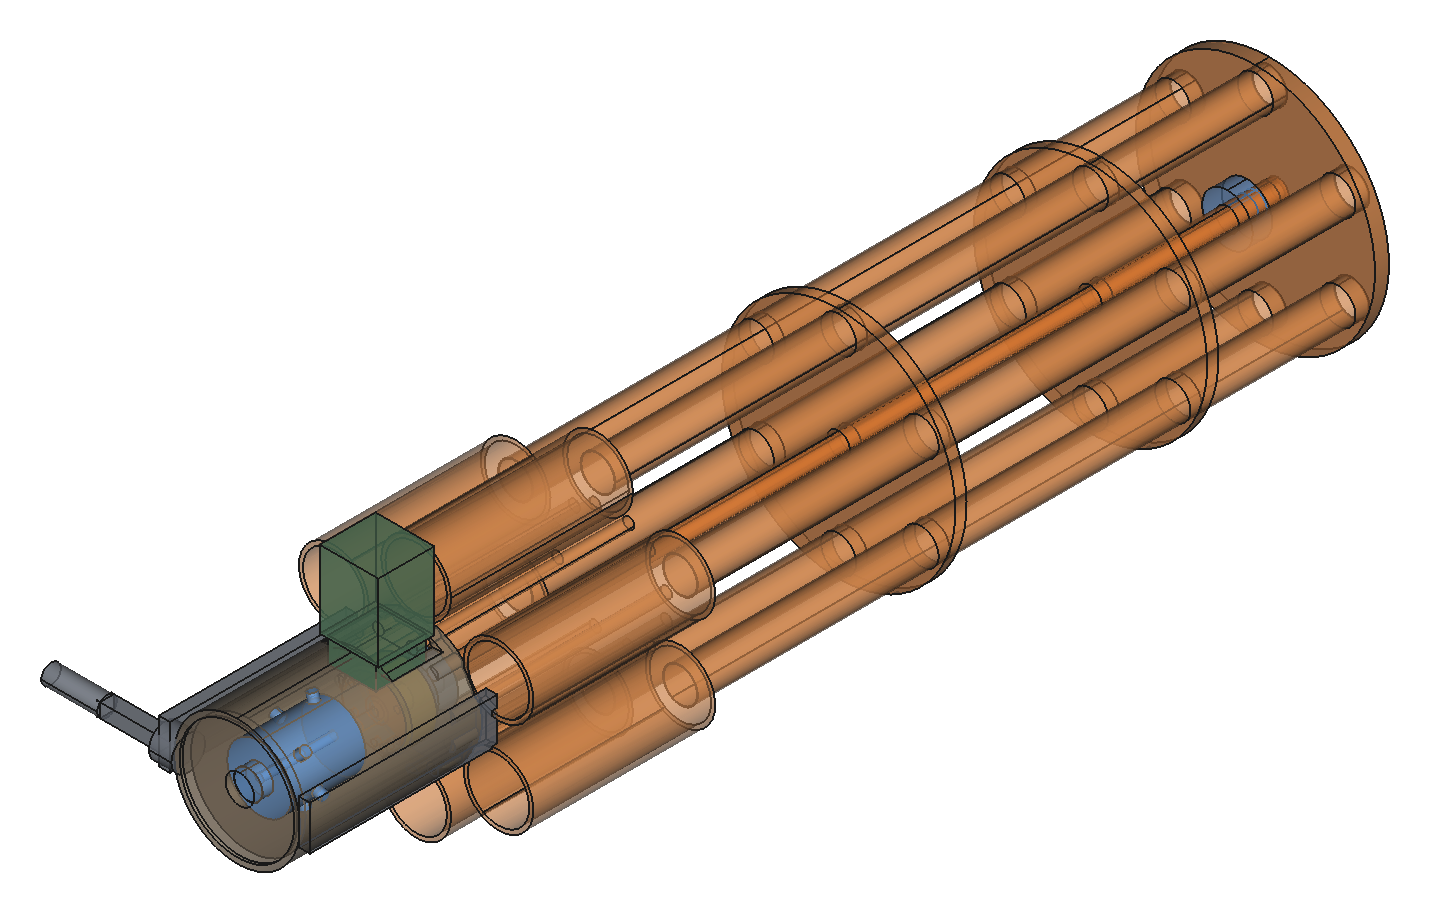
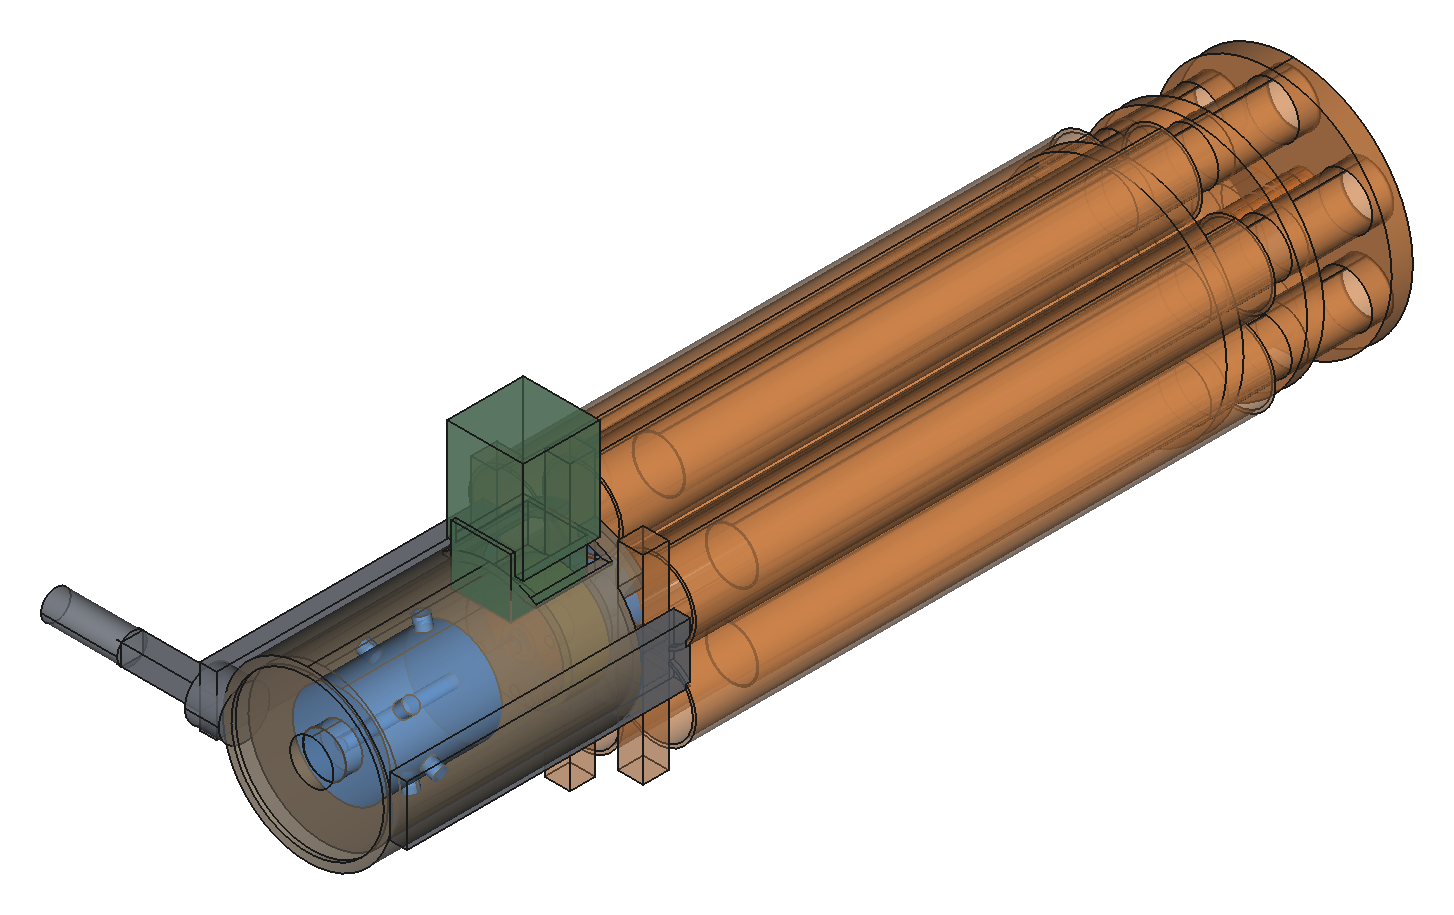
Redraw the gatling product sketch on mitrailleuse v4.4 tubes.
Use 25×0.6×300 barrels, Ø38×~274 chambers, six stations at pitch 40,
and keep the slim casing/hopper/crank without a carriage.

Changed region(s): [[0.0308, 0.0307, 0.9846, 0.9507]]

diff --git a/gatling/gun_sketch.py b/gatling/gun_sketch.py
@@ -2,16 +2,16 @@
 """
 Gatling finished-product silhouette (gun body only — no carriage/bench).
 
-Assembled gun: 6 QEV stations on R68, front spiders/clamp, breech casing over
-hub+MQR, top pellet hopper, rear hand crank, side cheeks. Warm = spins with
-the pack, cool = stays fixed. Block sketch only — no full station CAD, hoses,
-chronograph, or wheeled mount.
+Assembled gun on **mitrailleuse tubes** (live v4.4 numbers): steel barrel
+25 × 0.6 × 300, aluminium chamber 38 × 1.5 × ~274, six stations on a ring at
+pitch 40 (R = 40 for N = 6). Front spiders/clamps, slim breech casing over
+hub+MQR, top pellet hopper, rear hand crank, side cheeks. Warm = spins,
+cool = fixed. Block sketch only — no full module CAD, hoses, or wheeled mount.
 
 Visual cues (refs, not copies):
   Civil War / 1862–83 Gatling — barrel cluster, breech casing, top feed, crank.
-  Modern M134 — compact 6-barrel clamp + enclosed receiver at the breech.
-  Our kit — fat-coax chambers Ø50×130 at R68, barrels Ø25 (silhouette length
-  longer than the breech-bench stub so the pack reads as a long gun).
+  Modern M134 — front barrel clamps + enclosed receiver at the breech.
+  Pack geometry — mitrailleuse/module stage3v4 + pack pitch 40 (docs/pack.md).
 
     freecadcmd -c "REPO='$PWD'; exec(open('gatling/gun_sketch.py').read())"
 
@@ -42,15 +42,17 @@ for _m in (G, FV):
 OUT_DIR = os.path.join(REPO, "exports", "gatling_gun_sketch")
 NAME = "gatling_gun_sketch"
 
-# ---------------------------------------------------------------- pack (mm)
+# ---------------------------------------------------------------- pack from mitrailleuse v4.4 (mm)
+# Live numbers: module/stage3v4_coaxial_chamber.py + pack pitch docs/pack.md.
 N = 6
-R = 68.0                     # PACK_PITCH (real)
-BARREL_OD, BARREL_ID = 25.0, 23.8
-# Product silhouette barrels — longer than the ~180 breech-bench stub so the
-# pack dominates length (real OD/pitch kept).
-BARREL_L = 480.0
-CH_OD, CH_L = 50.0, 130.0    # real fat-coax chamber
-QEV_GAP = 8.0
+PITCH = 40.0                 # mitrailleuse module pitch
+R = PITCH                    # N=6 ring: neighbour chord = R → pitch 40
+BARREL_OD, BARREL_ID = 24.98, 23.8   # 25 × 0.6 steel
+BARREL_L = 300.0             # v4.4 default BARREL_LEN
+CH_OD, CH_L = 38.0, 274.0    # Al 38 × 1.5; chamber_len ≈ 274 from freecadcmd
+# Module rear ears → muzzle ≈ 348 mm (z_end − z_ry on v4.4).
+MODULE_L = 348.0
+REAR_LUMP = 12.0             # ears / rear plug silhouette aft of chamber tube
 
 AXLE_OD, AXLE_ID = 16.0, 10.0
 HUB_OD, HUB_T = 50.0, 18.0
@@ -62,24 +64,27 @@ MQR_GAP = 2.0
 BRG_OD, BRG_T = 36.0, 14.0
 
 PLATE_T = 10.0
-# Spiders follow barrel ring (Ø25 @ R68), not the fatter chamber envelope.
-PLATE_OD = 2 * R + BARREL_OD + 10.0
-CLAMP_OD = 2 * R + BARREL_OD + 6.0
+PLATE_OD = 2 * R + BARREL_OD + 8.0
+CLAMP_OD = 2 * R + BARREL_OD + 4.0
 
-# +Z toward muzzle.
+# +Z toward muzzle. Coaxial like v4.4: chamber tube around the rear of the barrel,
+# bare muzzle tip forward of the front plug.
 z_muzzle = 0.0
 z_plate0 = 0.0
 z_plate1 = PLATE_T
-z_clamp_a0 = 120.0
-z_clamp_a1 = z_clamp_a0 + 8.0
-z_clamp_b0 = 300.0
-z_clamp_b1 = z_clamp_b0 + 8.0
-z_breech = BARREL_L
-z_ch0 = z_breech
+z_bare = MODULE_L - CH_L - REAR_LUMP          # ≈ 62 mm bare barrel (matches v4.4 tip)
+z_ch0 = z_bare
 z_ch1 = z_ch0 + CH_L
-z_qev_aft = z_ch1 + QEV_GAP
+z_aft = z_ch1 + REAR_LUMP                     # = MODULE_L
+z_clamp_a0 = 40.0
+z_clamp_a1 = z_clamp_a0 + 8.0
+z_clamp_b0 = max(z_bare - 20.0, z_clamp_a1 + 30.0)
+z_clamp_b1 = z_clamp_b0 + 8.0
+# Barrel tube length BARREL_L along the module (seat→muzzle); show full Ø25 to muzzle.
+z_barrel0 = z_muzzle
+z_barrel1 = min(BARREL_L, z_aft - 20.0)
 
-z_hub1 = z_qev_aft + 20.0
+z_hub1 = z_aft + 18.0
 z_hub0 = z_hub1 - HUB_T
 z_axle0 = z_plate0 - 6.0
 z_axle1 = z_hub1
@@ -94,15 +99,14 @@ z_stator1 = z_stator0 + STATOR_L
 z_stub1 = z_stator1 + STATOR_HUB_L
 
 AXLE_L = z_axle1 - z_axle0
-PACK_OD = 2 * (R + CH_OD / 2)       # chamber envelope Ø186
+PACK_OD = 2 * (R + CH_OD / 2)       # Ø118 at pitch 40 / Ø38
 BARREL_RING_OD = 2 * (R + BARREL_OD / 2)
 
-# Slim breech casing around hub/MQR only — not a fat drum around the pack.
-# Product frame: +X up, +Y left (crank), +Z muzzle (fcview VIEW_ROT).
-CASE_OD = max(HUB_OD, STATOR_OD) + 40.0   # Ø90 — thinner than pack Ø186
+# Slim breech casing around hub/MQR — under the pack OD.
+CASE_OD = max(HUB_OD, STATOR_OD) + 30.0   # Ø80 < pack Ø118
 CASE_T = 4.0
-HOPPER_W, HOPPER_D, HOPPER_H = 42.0, 40.0, 55.0   # narrow, low
-CRANK_ARM, CRANK_GRIP = 50.0, 40.0                # short so width stays pack-like
+HOPPER_W, HOPPER_D, HOPPER_H = 36.0, 36.0, 48.0
+CRANK_ARM, CRANK_GRIP = 45.0, 36.0
 CHEEK_T = 8.0
 
 V = App.Vector
@@ -113,18 +117,19 @@ def tube(od, idd, z_a, z_b, x=0.0, y=0.0):
 
 
 def station(x, y):
-    barrel = tube(BARREL_OD, BARREL_ID, z_muzzle, z_breech)
-    chamber = tube(CH_OD, CH_OD - 6.0, z_ch0, z_ch1)
-    rxy = math.hypot(x, y) or 1.0
-    ux, uy = x / rxy, y / rxy
-    rail_y = -(CH_OD / 2 + 5.0)
-    r1 = G.cyl(8.0, z_ch0 - 10, z_ch1 + 15, -12.0, rail_y)
-    r2 = G.cyl(8.0, z_ch0 - 10, z_ch1 + 15, 12.0, rail_y)
-    local = G.fuse_all([barrel, chamber, r1, r2]).removeSplitter()
-    ang = math.degrees(math.atan2(ux, uy))
-    local.rotate(V(0, 0, 0), V(0, 0, 1), -ang)
-    local.translate(V(x, y, 0))
-    return local
+    """One mitrailleuse-style coaxial module: Ø25 barrel + Ø38 chamber around it."""
+    barrel = tube(BARREL_OD, BARREL_ID, z_barrel0, z_barrel1)
+    chamber = tube(CH_OD, CH_OD - 2 * 1.5, z_ch0, z_ch1)
+    # Tiny rear-plug ears lump (not full v4.4 CAD).
+    ears = Part.makeBox(CH_OD + 16.0, 12.0, REAR_LUMP,
+                        V(x - (CH_OD + 16.0) / 2, y - 6.0, z_ch1))
+    return G.fuse_all([placed_xy(barrel, x, y), placed_xy(chamber, x, y), ears]).removeSplitter()
+
+
+def placed_xy(shape, x, y):
+    s = shape.copy()
+    s.translate(V(x, y, 0))
+    return s
 
 
 def spider(z0, z1, od, hole_od):
@@ -235,7 +240,7 @@ bb = gun.BoundBox
 gun_L = bb.ZLength
 gun_W = bb.YLength
 gun_H = bb.XLength
-pack_L = z_qev_aft - z_muzzle
+pack_L = z_aft - z_muzzle
 case_L = z_case1 - z_case0
 hop_bb = hopper.BoundBox
 crank_bb = crank.BoundBox
@@ -249,7 +254,7 @@ checks = [
     ("hopper solid", G.single_solid(hopper)),
     ("crank solid", G.single_solid(crank)),
     ("cheeks present", cheeks_s.Volume > 1e4),
-    ("axle spans pack (%.0f)" % AXLE_L, AXLE_L >= (z_qev_aft - z_muzzle)),
+    ("axle spans pack (%.0f)" % AXLE_L, AXLE_L >= pack_L),
     ("axle out of MQR bore",
      axle.common(G.cyl(THROUGH + 0.5, z_rotor0, z_stub1)).Volume < 1.0),
     ("pack clears casing (vol %.1f)" % pack.common(casing).Volume,
@@ -258,17 +263,19 @@ checks = [
     ("casing slimmer than pack (Ø%.0f < Ø%.0f)" % (CASE_OD, PACK_OD),
      CASE_OD < PACK_OD),
     ("pack longer than casing (%.0f > %.0f)" % (pack_L, case_L),
-     pack_L > 2.5 * case_L),
+     pack_L > 2.0 * case_L),
     ("overall longer than wide (%.0f > %.0f)" % (gun_L, gun_W),
-     gun_L > 1.8 * gun_W),
+     gun_L > 1.5 * gun_W),
+    ("pitch 40 like mitrailleuse", abs(R - PITCH) < 1e-6),
 ]
 report = [
     NAME,
-    "  sketch                 : long/narrow gatling body (no carriage)",
+    "  sketch                 : gatling body on mitrailleuse tubes (no carriage)",
     "  rotates (warm)         : stations, spiders/clamps, axle, hub, MQR rotor",
     "  fixed (cool)           : slim breech casing, hopper, crank, cheeks, stator",
-    "  pack                   : 6@R%.0f, barrel Ø%.0f×%.0f + chamber Ø%.0f×%.0f"
-    % (R, BARREL_OD, BARREL_L, CH_OD, CH_L),
+    "  pack                   : 6@R%.0f (pitch %.0f), barrel Ø%.2f×%.0f + chamber Ø%.0f×%.0f"
+    % (R, PITCH, BARREL_OD, BARREL_L, CH_OD, CH_L),
+    "  source                 : stage3v4 25×0.6 / 38×1.5; module L≈%.0f mm" % MODULE_L,
     "  axle                   : Ø%.0f/%.0f × %.0f mm (nose→hub)" % (AXLE_OD, AXLE_ID, AXLE_L),
     "  overall L×W×H          : %.0f × %.0f × %.0f mm (Z × Y × X)"
     % (gun_L, gun_W, gun_H),
@@ -278,9 +285,9 @@ report = [
     % (hop_bb.XLength, hop_bb.YLength, hop_bb.ZLength),
     "  crank bbox             : %.0f × %.0f × %.0f mm (X×Y×Z)"
     % (crank_bb.XLength, crank_bb.YLength, crank_bb.ZLength),
-    "  product cues           : long pack + slim casing + hopper + short crank",
-    "  refs                   : 1862–83 Gatling feed/crank/casing; M134 clamp",
-    "  not drawn              : carriage, hoses, AirTAC detail, full station CAD",
+    "  product cues           : mitrailleuse pack + slim casing + hopper + crank",
+    "  refs                   : v4.4 tubes; 1862–83 casing/feed/crank; M134 clamps",
+    "  not drawn              : carriage, hoses, full v4.4 CAD, fat-coax gatling station",
 ]
 report += ["  [%s] %s" % ("OK " if ok else "FAIL", n) for n, ok in checks]
 print("\n".join(report))

diff --git a/docs/gatling.md b/docs/gatling.md
@@ -13,7 +13,7 @@
 - [`gatling/mqr_axis_sketch.py`](../gatling/mqr_axis_sketch.py) — ось + ступица + MQR на
   двух стойках;
 - [`gatling/gun_sketch.py`](../gatling/gun_sketch.py) — **силуэт готового изделия**
-  (6@R68, казённый кожух, бункер, рукоять; без лафета);
+  на трубах митральезы (6@pitch40, кожух/бункер/рукоять; без лафета);
 - [`gatling/pack_sketch.py`](../gatling/pack_sketch.py) — технабросок пакета/оси
   (не вид изделия).
 
@@ -67,13 +67,13 @@
     3D-блоки оси: [`gatling/mqr_axis_sketch.py`](../gatling/mqr_axis_sketch.py) — вал на
     двух маленьких стойках + ступица + ротор (тёплый); статор + пластина (холодный).
     Опора пакета — подшипники, не MQR.
-    Силуэт **готового изделия** (без лафета): [`gatling/gun_sketch.py`](../gatling/gun_sketch.py) —
-    длинный узкий корпус: 6@R68 (камера Ø50×130 реальная; стволы силуэта Ø25×480),
-    тонкий казённый кожух Ø90 над ступицей/MQR, узкий бункер, короткая рукоять.
-    Габарит ≈ **750 × 224 × 195 мм** (Д×Ш×В); пакет L 618 / Ø186; кожух L 130 / Ø90;
-    бункер ≈ 73×42×40; рукоять вылет ≈ 98 мм. Референсы: Gatling 1862–83 (бункер,
-    рукоять, кожух) и M134 (хомут, ресивер). Технабросок пакета —
-    [`gatling/pack_sketch.py`](../gatling/pack_sketch.py).
+    Силуэт **готового изделия** (без лафета) на **трубах митральезы** v4.4:
+    [`gatling/gun_sketch.py`](../gatling/gun_sketch.py) — 6 модулей на кольце pitch 40
+    (R40): ствол сталь 25×0.6×300, камера Al 38×1.5×~274, длина модуля ≈348 мм;
+    тонкий казённый кожух Ø80, узкий бункер, короткая рукоять.
+    Габарит ≈ **478 × 181 × 157 мм** (Д×Ш×В); пакет L 348 / Ø118; кожух L 130 / Ø80;
+    бункер ≈ 66×36×38; рукоять вылет ≈ 89 мм. (Fat-coax R68 — отдельная ветка стенда,
+    не этот силуэт.) Технабросок пакета — [`gatling/pack_sketch.py`](../gatling/pack_sketch.py).
 
 ![MQR6 на оси пакета](img/gatling_mqr_axis.svg)
 

diff --git a/docs/status.md b/docs/status.md
@@ -84,7 +84,7 @@
 | `linear_breech.py` | **живое** (эскиз) | Станция затвора: fat coax на 2 рельсах Ø8 × 1, два хомута ствола (казённик + насадка), носовые втулки на QEV, **жёлоб на передней крышке** (одна печать с крышкой; борта ниже экватора, толкает кончик фиттинга), ход ≈ 66 мм; AirTAC M3R110 в люльке (шток −Z), L-палец жмёт **только на закрытии**. `exec` fat coax как библиотека. Выгрузка `exports/gatling_linear_breech/`. |
 | `linear_breech_bench.py` | **живое** (эскиз) | Ручной стенд одной станции: две маленькие опоры под рельсы (рельсы — балка, без длинной плиты), T-ручка на салазках. `exec` linear_breech как библиотека. Выгрузка `exports/gatling_linear_breech_bench/`. Плиты: `gatling/linear_breech_bench_plates.sh` → PLA airtight 0.4 + PLA 0.8. |
 | `mqr_axis_sketch.py` | **живое** (эскиз) | Грубая 3D-сборка оси: вал на 2 маленьких стойках + ступица + ротор MQR (крутится) / статор + пластина (стоит). MQR не в силовой цепи. Выгрузка `exports/gatling_mqr_axis_sketch/`. |
-| `gun_sketch.py` | **живое** (эскиз) | Силуэт **готового** корпуса: длинный узкий, 6@R68, кожух Ø90, бункер, рукоять; **без лафета**. Габарит ≈ 750×224×195 мм. Выгрузка `exports/gatling_gun_sketch/`; `docs/img/gatling_gun_product_3d.png`. |
+| `gun_sketch.py` | **живое** (эскиз) | Силуэт **готового** корпуса на трубах митральезы v4.4 (25×0.6×300 + Ø38×~274, 6@pitch40); кожух Ø80, бункер, рукоять; **без лафета**. Габарит ≈ 478×181×157 мм. `docs/img/gatling_gun_product_3d.png`. |
 | `pack_sketch.py` | **живое** (эскиз) | Технабросок пакета/оси (без лафета как изделия). Выгрузка `exports/gatling_pack_sketch/`. |
 | [`docs/gatling.md`](gatling.md) | **живое** | Промежуточные решения и запуск. Труба 50×1.5 и коллектор **MQR6** заказаны 2026-11-12. Изделие: `gatling/gun_sketch.py`; ось: `mqr_axis_sketch.py`. |
 
